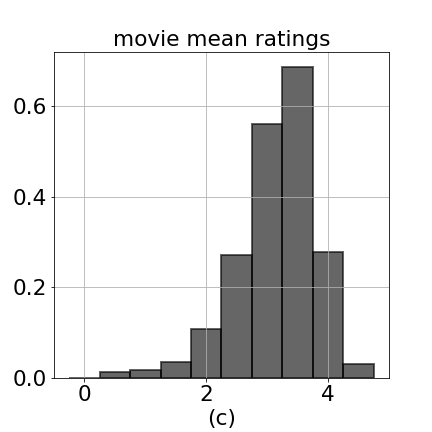
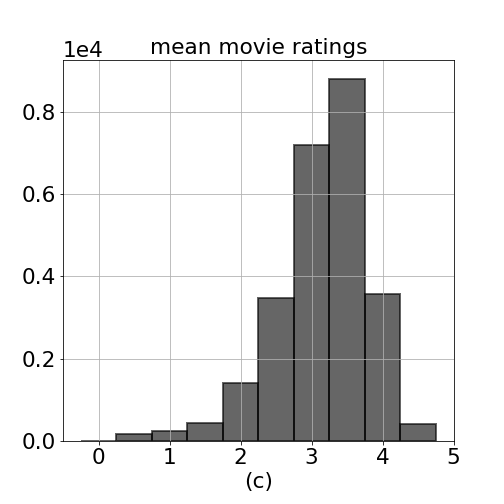
end of day

diff --git a/posts/collaborative-filtering-tensorflow/index.html b/posts/collaborative-filtering-tensorflow/index.html
@@ -70,7 +70,7 @@
 
 <p>By the nature of the problem, $R$ is a sparse matrix, where the sparsity comes not from zero entries but from empty records. Therefor, we represent the training data in 3 columns: $i$: user ID , $j$: movie ID and $R_{ij}$: the rating (see Table 1).</p>
 
-<p><font size="+1"><strong><p align="center">Table 1. Ratings data in sparse format</p></strong></font></p>
+<p><font size="+1"><strong><p align="center">Table 1. Ratings data ml-20m sparse format</p></strong></font></p>
 
 <table>
 <thead>
@@ -172,8 +172,8 @@
 
 <p><strong>Eckart-Young Theorem</strong> states that if $R_k$ is the best rank-$k$ approximation of $R$, then it&rsquo;s necessary that:</p>
 
-<p>&nbsp;&nbsp;&nbsp;&nbsp;&nbsp;&nbsp;&nbsp;&nbsp;&nbsp;&nbsp;   1. $R_k$ minimizes the Frobenius norm $||R-R_k||_F^2$, and<br />
-&nbsp;&nbsp;&nbsp;&nbsp;&nbsp;&nbsp;&nbsp;&nbsp;&nbsp;&nbsp;   2. $R_k$ can be constructed by retaining only the largest $k$ singular values in the SVD formulation $R_k=U \cdot \Sigma_k \cdot V^T$.</p>
+<p>&emsp;&emsp;&emsp;   1. $R_k$ minimizes the Frobenius norm $||R-R_k||_F^2$ and<br />
+&emsp;&emsp;&emsp;   2. $R_k$ can be constructed by retaining only the largest $k$ singular values in $\Sigma_k$ of the SVD formulation.</p>
 
 <p>We can further absorb the diagonal matrix $\Sigma_k$ into $U$ and $V$ and express the factorization as a simple dot product between the feature matrices for users and movies.</p>
 
@@ -191,7 +191,7 @@ $V$: movies feature matrix</p>
 
 <p>Hence, we formulate the problem as an <strong>optimization problem</strong> and search for $U$ and $V$ by minimizing the following loss function $L$.</p>
 
-<p align="center">$argmin_{\ U,V}\ L = ||R - U \cdot V^T||_F^2$.</p>
+<p>$$argmin_{\ U,V}\ L = ||R - U \cdot V^T||_F^2$$</p>
 
 <blockquote>
 <p><em>An important point to make is that the Frobenius norm is computed only as a partial summation over the entries in $R$ where a rating is provided.</em></p>
@@ -246,7 +246,7 @@ $V$: movies feature matrix</p>
     <div style="clear:both"></div>
 </div>
 <br>
-<font size="+1"><b><p align="center">Figure 2. Histogram of (<em>a</em>) all ratings (<em>b</em>) user mean ratings (<em>c</em>) movie mean ratings, and (<em>d</em>)
+<font size="+1"><b><p align="center">Figure 2. Histogram of (<em>a</em>) all ratings in ml-20m data (<em>b</em>) mean of ratings per user (<em>c</em>) mean of ratings per movie, and (<em>d</em>)
     number of ratings provided by users. Minimum number of ratings provided by a user is 20, and maximum is 9254 ratings.
 </p></b></font></p>
 
@@ -255,83 +255,76 @@ $V$: movies feature matrix</p>
 <h2 id="4-challenges-in-developing-the-model-on-tensorflow">4. Challenges in Developing the Model on <code>tensorflow</code></h2>
 
 <ul>
-<li>A particular challenge in implementing a Matrix Factorization algorithm on <code>tensorflow</code> is that we can&rsquo;t naively pass <code>None</code> for the <code>shape</code> argument while declaring the input data tensors <code>R</code> and <code>R_indices</code> as in <code>R = tf.placeholder(..., shape=(None))</code>. Since every rating <code>R[i,j]</code> is a function of only $2*k$ tunable variables. The <code>shape</code> parameter corresponds to how many ratings will make up a single batch in the SGD routine. To make the SGD work, I had to fix the <code>shape</code> of the <code>tf.placeholder</code> <code>R</code> and <code>R_indices</code>  to <code>shape=(BATCH_SIZE, k)</code> instead of <code>shape=(None, k)</code>. This a small price to pay that allows me to use GPU computation and also backprop with symbolic differentiation, which gave me the flexibility to experiment in trying additional non-linear terms in the loss function without having the worry about the partial differentials with respect to the tunable variables.<br /></li>
-</ul>
+<li><p>A particular challenge in implementing a Matrix Factorization algorithm on <code>tensorflow</code> is that we can&rsquo;t naively pass <code>None</code> for the <code>shape</code> argument while declaring the input data tensors <code>R</code> and <code>R_indices</code> as in <code>R = tf.placeholder(..., shape=(None))</code>.  The <code>shape</code> parameter corresponds to the number of ratings a single batch in the SGD step contains. To make the SGD work, I had to fix the <code>shape</code> of the <code>tf.placeholder</code> variables <code>R</code> and <code>R_indices</code>  to <code>shape=(BATCH_SIZE, k)</code> instead of <code>shape=(None, k)</code>.  This is a small price to pay that allows me to use <code>tensorflow</code> which provides me GPU computation and also backprop with symbolic differentiation. This gave me the flexibility to experiment with additional nonlinear terms in loss function without having the worry about the partial differentials with respect to the tunable variables.</p>
 
 <pre><code class="language-python">R = tf.placeholder(dtype=tf.float32, shape=(BATCH_SIZE,))
 R_indices = tf.placeholder(dtype=tf.int32, shape=(BATCH_SIZE,2))
 u_mean = tf.placeholder(dtype=tf.float32, shape=(BATCH_SIZE,1)) 
 v_mean = tf.placeholder(dtype=tf.float32, shape=(BATCH_SIZE,1)) 
-</code></pre>
+</code></pre></li>
 
-<ul>
-<li>At each iteration of the SGD algorithm a mini-batch of rating data $R_{ij}$ and the corresponding user and movie index pair $(i,j)$, will be fed into the computational graph. Since each $R_{ij}$ is represented as the dot product $u_i \cdot v_j^T$ by our model, this will require us to create a stack of the corresponding embedding vectors, a <code>U_stack</code> and a <code>V_stack</code> where <code>U_stack.getshape() == (BATCH_SIZE,k)</code> and <code>V_stack.getshape() == (BATCH_SIZE,k)</code>.</li>
-</ul>
-
-<p>The implementation on <code>tensorflow</code> is a little trickier than in <code>numpy</code>, and it&rsquo;s implemented in the following <code>get_stacked_UV</code> module:</p>
+<li><p>At each SGD step a mini-batch of rating data $R_{ij}$ and the corresponding user-movie index pairs $(i,j)$ are fed into the computational graph. Since each $R_{ij}$ is represented as the dot product $u_i \cdot v_j^T$, we have to stack the corresponding embedding vectors into 2-D tensors <code>U_stack</code> and <code>V_stack</code> where both <code>U_stack.getshape()</code> and <code>V_stack.getshape()</code> equal to <code>(BATCH_SIZE,k)</code>.<br />
+The implementation of stacking tensors <code>tensorflow</code> is a little trickier than in <code>numpy</code>, and it&rsquo;s implemented in the following <code>get_stacked_UV</code> module:</p>
 
 <pre><code class="language-python">def get_stacked_UV(R_indices, R, U, V, k, BATCH_SIZE):
-    u_idx = R_indices[:,0]
-    v_idx = R_indices[:,1]
-    rows_U = tf.transpose(np.ones((k,1), dtype=np.int32)*u_idx)
-    rows_V = tf.transpose(np.ones((k,1), dtype=np.int32)*v_idx)
-    cols = np.arange(k, dtype=np.int32).reshape((1,-1))
-    cols = tf.tile(cols, [BATCH_SIZE,1])
+u_idx = R_indices[:,0]
+v_idx = R_indices[:,1]
+rows_U = tf.transpose(np.ones((k,1), dtype=np.int32)*u_idx)
+rows_V = tf.transpose(np.ones((k,1), dtype=np.int32)*v_idx)
+cols = np.arange(k, dtype=np.int32).reshape((1,-1))
+cols = tf.tile(cols, [BATCH_SIZE,1])
 
-    indices_U = tf.stack([rows_U, cols], -1)
-    indices_V = tf.stack([rows_V, cols], -1)
+indices_U = tf.stack([rows_U, cols], -1)
+indices_V = tf.stack([rows_V, cols], -1)
 
-    stacked_U = tf.gather_nd(U, indices_U)
-    stacked_V = tf.gather_nd(V, indices_V)
+stacked_U = tf.gather_nd(U, indices_U)
+stacked_V = tf.gather_nd(V, indices_V)
     
-    return stacked_U, stacked_V
-</code></pre>
+return stacked_U, stacked_V
+</code></pre></li>
+</ul>
 
 <hr />
 
-<h2 id="7-linear-vs-non-linear-features">7. Linear vs Non-linear features</h2>
+<h2 id="5-linear-and-nonlinear-features">5. Linear and Nonlinear Features</h2>
 
 <ul>
-<li><code>R_pred = tf.sigmoid(R_pred) * 5</code> dropped the <code>MAE_test</code> approximately from <code>.64</code> to <code>.62</code>. Firstly, I can&rsquo;t explain why sigmoid works better&ndash;although only by a tiny bit.</li>
-<li>However, adding squared dot product term along with the linear dot product, didn&rsquo;t produce any tangible improvement.</li>
-</ul>
-
-<pre><code class="language-python">u_cdot_v_square = tf.square(tf.multiply(sliced_U, sliced_V)) 
+<li><code>R_pred = tf.sigmoid(R_pred) * 5</code> dropped the <code>MAE_test</code> approximately from <code>.64</code> to <code>.62</code>. The reason for it is that the error rate, in the absence of sigmoid activation, some prediction can get bigger than 5 and some smaller than 0. Sigmoid brings them closer to the actual<br /></li>
+<li>However, adding squared dot product term along with the linear dot product, didn&rsquo;t produce any tangible improvement and was discarded from the final model.
+<code>python 
+u_cdot_v_square = tf.square(tf.multiply(U_stack_, V_stack)) 
 nl = tf.reduce_sum(u_cdot_v_square, axis=1)
 R_pred = R_pred + alpha*nl
 R_pred = tf.sigmoid(R_pred) * 5
-</code></pre>
+</code></li>
+</ul>
 
-<h2 id="8-linear-features">8. Linear Features:</h2>
+<h2 id="6-nonlinear-cross-features">6. Nonlinear Cross-Features:</h2>
 
-<p>Matrix factorization is based on a low-rank singular value decomposition (SVD).</p>
+<ul>
+<li>In the linear collaborative filtering model, $$R_{ij} = U_{i} \cdot V_{j}^T$$ $p^{th}$ feature of $U_{i}$ is multiplied with the corresponding $p^{th}$ feature of $V_{j}$.</li>
+</ul>
 
-<p>$$R=U \cdot V^{T}$$</p>
+<p>$$=&gt; Linear\ Model: MAE (CV) = 0.6237$$</p>
 
-<p>An individual rating of user $i$ on movie $j$ is given by</p>
-
-<p>$$r_{ij} = u_{i} \cdot v_{j}^T$$</p>
-
-<p>Here, each user feature vector $u_i$ and movie feature vector $v_j$ is of length $k$. and the classical matrix factorization multiplies $p^{th}$ feature of $u_{i}$ with  $p^{th}$ feature of $v_{j}$. Here, one can assume the feature $p$ corresponds to how much of a specific genre is present in movie $j$ and how much a user $i$ likes that specific genre. When the rating $y_{ij}$ is modeled by a dot product between $u_i$ and $v_j$.</p>
-
-<p>&emsp;&emsp;&emsp;&emsp;&emsp;<strong>=&gt; Linear Model: MAE (CV) = 0.6237</strong></p>
-
-<h2 id="9-nonlinear-cross-features">9. Nonlinear Cross-Features:</h2>
-
-<p>The rating prediction with cross-features</p>
+<ul>
+<li>The rating prediction with cross-features:</li>
+</ul>
 
 <p>$$r_{ij} = u_{i} \cdot v_{j}^{T} + \sum_{p=0}^{k}\sum_{q=0}^{k} w_{pq} (u_{ip} \cdot v_{jq}^{T})$$</p>
 
-<p>Here, we&rsquo;re multiplying $p^{th}$ feature of user $i$ with $q^{th}$ feature of movie $j$. This allows the model to learn cross interactions as, say, if a user likes the actor Tom Cruise (the $p^{th}$ feature&ndash;high  value for $u_{ip}$), and she doesn&rsquo;t like dark and suspenseful thrillers ($q^{th}$ feature&ndash;low value for $u_{iq}$), however, she likes the movie Eyes Wide Shut (even though it has a high value for $v_{jq}$), because an underlying reason that makes her not like dark suspenseful movies perhaps disappears if Tom Cruise is in the movie. For a model to capture such a pattern, it has to allow some sort of <strong>nonlinear interactions</strong> between feature $p$ and feature $q$.</p>
+<ul>
+<li>Here, $p^{th}$ feature of user $i$ is getting multiplied with $q^{th}$ feature of movie $j$. This allows the model to learn cross interactions as, for instance, if a user likes the actor Tom Cruise (the $p^{th}$ feature&ndash;high  value for $u_{ip}$), and she doesn&rsquo;t like dark and suspenseful thrillers ($q^{th}$ feature&ndash;low value for $u_{iq}$), however, she likes the movie Eyes Wide Shut (even though it has a high value for $v_{jq}$), because an underlying reason that makes her not like dark suspenseful movies perhaps disappears if Tom Cruise is in the movie. For a model to capture such a pattern, it has to allow some sort of <strong>nonlinear cross interactions</strong> between features $p$ and $q$.<br /></li>
+</ul>
 
-<p>&emsp;&emsp;&emsp;&emsp;&emsp;<strong>=&gt; Non-linear Model: MAE (CV) = 0.6150</strong></p>
+<p>$$=&gt; Nonlinear\ Model: MAE (CV) = 0.6150$$</p>
 
 <pre><code>R_pred = np.dot(U,V) + alpha1*(xft) + alpha2*(uv_sq)
 </code></pre>
 
 <p>The runtime for one epoch went from $31$ sec for linear model to $60$ sec when considering all 3 types of nonlinear feature crossings ($u_{ip}$ ~ $v_{jq}$), ($u_{ip}$ ~ $u_{iq}$), ($v_{jp}$ ~ $v_{jq}$)</p>
 
-<h2 id="10-improvements-on-the-algorithm">10. Improvements on the Algorithm</h2>
+<h2 id="8-improvements-on-the-algorithm">8. Improvements on the Algorithm</h2>
 
 <ol>
 <li>The regularization term needs to take into account the average rating for each user $u_i$, $\mu_{u_i}$.</li>
